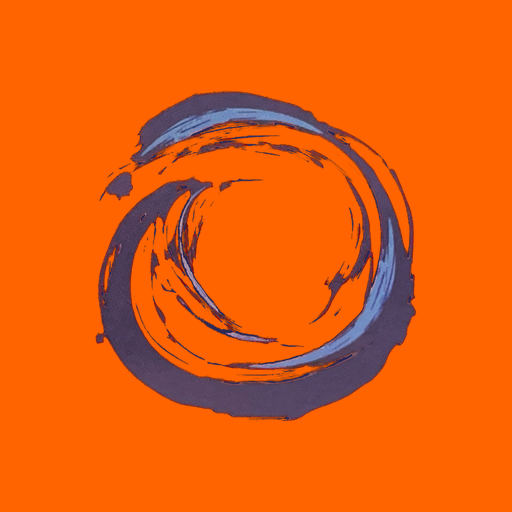
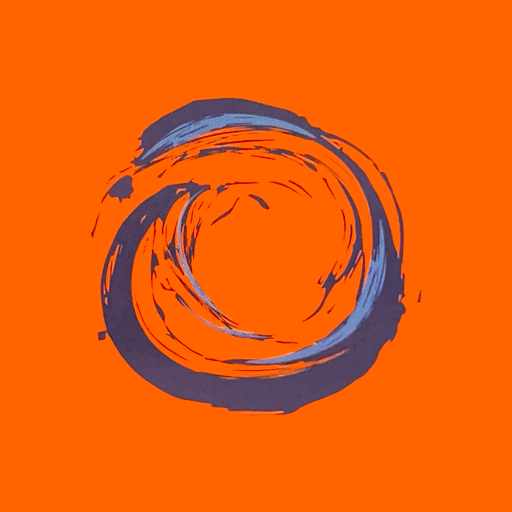
Fix: colori autentici della spirale + wordmark trasparente (no rettangolo blu)
- Loghi rigenerati dalla scansione reale mantenendo i colori originali
  (indaco profondo + azzurro acciaio), non più schiariti
- Corretto il wordmark che veniva esportato come rettangolo navy opaco:
  ora sfondo trasparente, verificato a build-time
- Contatti 'Parliamone': testo riscritto
- Pipeline asset riproducibile in scripts/brand/ + docs/BRAND-ASSETS.md
- PROGRESS/DECISIONS/README aggiornati allo stato attuale

Changed region(s): [[0.1875, 0.1562, 0.8438, 0.8438], [0.5312, 0.3438, 0.5938, 0.375], [0.1562, 0.4375, 0.1875, 0.4688]]

diff --git a/src/app/contatti/page.tsx b/src/app/contatti/page.tsx
@@ -21,8 +21,9 @@ export default function ContattiPage() {
           Parliamone
         </h1>
         <p className="mt-5 text-pretty font-sans text-base leading-relaxed text-ink/70">
-          Per una commissione, una collaborazione o solo per un saluto: sono qui.
-          Il modo più veloce per raggiungermi è Instagram o WhatsApp.
+          Per una commissione, una collaborazione o due parole su un&apos;idea che
+          hai in mente: scrivimi pure. Rispondo personalmente a ogni messaggio —
+          mi trovi più facilmente su Instagram o WhatsApp.
         </p>
 
         <div className="mt-10 space-y-5">

diff --git a/scripts/brand/build-assets.py b/scripts/brand/build-assets.py
@@ -1,0 +1,79 @@
+"""Step 2 — build every brand asset from the extracted spiral.
+
+Input : spiral_authentic.png            (output of extract-spiral.py)
+        ../../public/brand/logo-concept.png  (the wordmark letterforms, native res)
+Writes (into ../../public):
+    brand/spiral.png         faithful spiral, transparent (used everywhere it spins)
+    brand/spiral-cream.png   cream silhouette of the spiral (watermark on dark bg)
+    brand/wordmark-full.png  "MEMENTO<spiral>LAB" — navy letters + spiral as the O
+    brand/wordmark-cream.png cream version of the wordmark (dark backgrounds)
+    apple-icon.png           favicon / app icon (spiral on orange, padded)
+
+Every transparent output is VERIFIED to actually have transparency, so a fully
+opaque navy rectangle can never ship again. Run: `python3 build-assets.py`.
+"""
+import os
+import numpy as np
+from PIL import Image
+
+HERE = os.path.dirname(os.path.abspath(__file__))
+PUBLIC = os.path.normpath(os.path.join(HERE, "..", "..", "public"))
+ORANGE = np.array([255, 100, 0], dtype=np.float32)
+CREAM = (251, 241, 228)
+
+spiral = Image.open(os.path.join(HERE, "spiral_authentic.png")).convert("RGBA")
+
+
+def report(name, im):
+    frac = round((np.asarray(im)[:, :, 3] < 30).mean(), 3)
+    assert frac > 0.10, f"{name} has NO transparency (frac={frac}) -> solid block!"
+    print(f"OK {name} {im.size} transparent_frac={frac}")
+
+
+# 1) spiral.png
+spiral.save(f"{PUBLIC}/brand/spiral.png")
+report("brand/spiral.png", spiral)
+
+# 2) spiral-cream.png (recolour ink -> cream, keep alpha)
+a = np.asarray(spiral).copy()
+a[:, :, 0], a[:, :, 1], a[:, :, 2] = CREAM
+cream_sp = Image.fromarray(a, "RGBA")
+cream_sp.save(f"{PUBLIC}/brand/spiral-cream.png")
+report("brand/spiral-cream.png", cream_sp)
+
+# 3) wordmark-full.png — replace the concept's low-res O with the hi-res spiral
+concept = Image.open(f"{PUBLIC}/brand/logo-concept.png").convert("RGB").copy()
+px = concept.load()
+for y in range(258, 342):                       # erase the old O (orange fill)
+    for x in range(376, 455):
+        px[x, y] = tuple(int(v) for v in ORANGE)
+D, cx, cy = 86, 415, 301                         # spiral size + O centre in the concept
+tmp = concept.convert("RGBA")
+tmp.alpha_composite(spiral.resize((D, D), Image.LANCZOS), (cx - D // 2, cy - D // 2))
+comp = np.asarray(tmp.convert("RGB")).astype(np.float32)
+
+d = np.sqrt(((comp - ORANGE) ** 2).sum(axis=2))
+alpha = np.clip((d - 45) / (120 - 45), 0, 1)     # key orange -> transparent
+wm = np.dstack([comp.astype(np.uint8), (alpha * 255).astype(np.uint8)])
+wm_im = Image.fromarray(wm, "RGBA")
+al = np.asarray(wm_im)[:, :, 3]
+ys, xs = np.where(al > 18)
+pad = 6
+wm_im = wm_im.crop((max(0, xs.min() - pad), max(0, ys.min() - pad), xs.max() + pad, ys.max() + pad))
+wm_im.save(f"{PUBLIC}/brand/wordmark-full.png")
+report("brand/wordmark-full.png", wm_im)
+
+# 4) wordmark-cream.png
+w = np.asarray(wm_im).copy()
+w[:, :, 0], w[:, :, 1], w[:, :, 2] = CREAM
+cream_wm = Image.fromarray(w, "RGBA")
+cream_wm.save(f"{PUBLIC}/brand/wordmark-cream.png")
+report("brand/wordmark-cream.png", cream_wm)
+
+# 5) favicon / apple-icon (spiral on orange, padded, square)
+S, p = 512, int(512 * 0.14)
+icon = Image.new("RGBA", (S, S), tuple(int(v) for v in ORANGE) + (255,))
+icon.alpha_composite(spiral.resize((S - 2 * p, S - 2 * p), Image.LANCZOS), (p, p))
+icon.convert("RGB").save(f"{PUBLIC}/apple-icon.png")
+print("OK apple-icon.png 512x512 (opaque icon, expected)")
+print("all assets written")

diff --git a/scripts/brand/extract-spiral.py b/scripts/brand/extract-spiral.py
@@ -1,0 +1,60 @@
+"""Step 1 — extract the MementoLab spiral from the client's scanned logo.
+
+Input : source-spiral-scan.png  (the spiral, painted in navy/steel-blue on an
+        orange card — the PNG embedded in the PDF the client provided).
+Output: spiral_authentic.png    (1000x1000, transparent background, faithful
+        colours — deep indigo + steel blue, NOT lightened).
+
+Method: soft-key out the orange background to transparency while keeping the
+scan's ORIGINAL ink RGB (no colour "cleaning"/decontamination — that lightened
+earlier versions). Disconnected paint flecks are removed so they don't read as
+dirt inside the wordmark. Run: `python3 extract-spiral.py` (needs numpy+scipy).
+"""
+import os
+import numpy as np
+from PIL import Image
+from scipy import ndimage
+
+HERE = os.path.dirname(os.path.abspath(__file__))
+ORANGE = np.array([255, 100, 0], dtype=np.float32)  # scanned card background
+LO, HI = 45.0, 120.0                                # soft alpha key (dist. from orange)
+
+src = Image.open(os.path.join(HERE, "source-spiral-scan.png")).convert("RGB")
+a = np.asarray(src).astype(np.float32)
+
+# alpha = how far each pixel is from the orange background (0 orange .. 1 ink)
+d = np.sqrt(((a - ORANGE) ** 2).sum(axis=2))
+alpha = np.clip((d - LO) / (HI - LO), 0, 1)
+
+# Keep the scan's ORIGINAL RGB. The spiral is always shown ON the orange brand
+# background in the site, so keeping original colours reproduces the scan exactly
+# and avoids the bright-blue fringing that un-premultiplying causes on downscale.
+rgba = np.dstack([a.astype(np.uint8), (alpha * 255).astype(np.uint8)])
+
+# Remove disconnected flecks: dilate to bridge the real (thin) strands into one
+# blob, keep the largest blob, drop everything spatially separated from it.
+mask = alpha > 0.16
+dil = ndimage.binary_dilation(mask, iterations=13)
+lbl, n = ndimage.label(dil)
+sizes = ndimage.sum(np.ones_like(lbl), lbl, range(1, n + 1))
+keep = lbl == (np.argmax(sizes) + 1)
+rgba[..., 3] = np.where(keep, rgba[..., 3], 0)
+
+out = Image.fromarray(rgba, "RGBA")
+
+# trim to the swirl, square it with a little breathing room, resize to 1000px
+al = np.asarray(out)[:, :, 3]
+ys, xs = np.where(al > 12)
+crop = out.crop((xs.min(), ys.min(), xs.max() + 1, ys.max() + 1))
+w, h = crop.size
+side = max(w, h)
+pad = int(side * 0.06)
+canvas = Image.new("RGBA", (side + 2 * pad, side + 2 * pad), (0, 0, 0, 0))
+canvas.alpha_composite(crop, ((side - w) // 2 + pad, (side - h) // 2 + pad))
+final = canvas.resize((1000, 1000), Image.LANCZOS)
+final.save(os.path.join(HERE, "spiral_authentic.png"))
+
+al = np.asarray(final)[:, :, 3]
+print("spiral_authentic.png", final.size,
+      "transparent_frac", round((al < 30).mean(), 3),
+      "solid ink median RGB", np.median(np.asarray(final)[al > 240][:, :3], axis=0).astype(int))

diff --git a/docs/BRAND-ASSETS.md b/docs/BRAND-ASSETS.md
@@ -1,0 +1,65 @@
+# Brand assets — logo, spirale, wordmark, favicon
+
+Tutti i loghi del sito derivano dalla **spirale dipinta a mano** del brand,
+scansionata dal cliente. Questo documento spiega quali file esistono, dove
+vengono usati e **come rigenerarli da zero** in modo fedele.
+
+## Regola d'oro
+Il cliente vuole la **scansione reale** della spirale, con i **colori autentici**
+(indaco profondo + azzurro acciaio). NON usare versioni vettoriali/ridisegnate e
+NON "schiarire" o desaturare i colori. La spirale va sempre mostrata sul fondo
+**arancione** del brand.
+
+## File generati
+
+| File | Cos'è | Dove si usa |
+|------|-------|-------------|
+| `public/brand/spiral.png` | Spirale fedele, sfondo trasparente (1000×1000) | Intro animata, hero che gira sullo scroll, footer, filigrane su sezioni arancioni/chiare, favicon |
+| `public/brand/spiral-cream.png` | Silhouette color crema della spirale | Filigrana sulle sezioni scure (navy) |
+| `public/brand/wordmark-full.png` | Logotipo `MEMENTO●LAB`: lettere navy + spirale come lettera **O** | Header, intro, hero (reveal sullo scroll), footer |
+| `public/brand/wordmark-cream.png` | Versione crema del logotipo | Menu mobile e sfondi scuri |
+| `public/apple-icon.png` | Favicon / icona app: spirale su arancione (512×512) | Tab del browser, home screen |
+
+Sorgenti (in `scripts/brand/`):
+- `source-spiral-scan.png` — la scansione originale (spirale su cartoncino arancione), estratta dal PDF del cliente.
+- `public/brand/logo-concept.png` — il logotipo di concept, da cui si prendono le **lettere** MEMENT…LAB alla loro risoluzione nativa.
+
+## Come rigenerare tutto da zero
+
+Serve Python 3 con `pillow`, `numpy`, `scipy`:
+
+```bash
+pip3 install --user pillow numpy scipy
+cd scripts/brand
+python3 extract-spiral.py   # scansione -> spiral_authentic.png (spirale pulita, trasparente)
+python3 build-assets.py     # spiral_authentic.png -> tutti i file in public/
+```
+
+`build-assets.py` **verifica** che ogni PNG trasparente abbia davvero
+trasparenza (fallisce se per errore produce un rettangolo pieno).
+
+## Come funziona (in breve)
+1. **extract-spiral.py** — sul cartoncino l'unico colore di fondo è l'arancione
+   `(255,100,0)`. Si calcola per ogni pixel la distanza da quell'arancione e la
+   si usa come canale alpha (arancione → trasparente, inchiostro → opaco). Si
+   **mantengono i colori RGB originali** della scansione (nessuna "pulizia" che
+   li schiarirebbe). Gli schizzi di vernice staccati dalla spirale vengono
+   rimossi (dilatazione → si tiene solo la macchia più grande) perché dentro il
+   logotipo sembrerebbero sporco. Output quadrato 1000px.
+2. **build-assets.py** — salva la spirale, ne crea la versione crema, e
+   ricostruisce il logotipo prendendo le lettere dal concept e **sostituendo la
+   vecchia O a bassa risoluzione con la spirale nuova** (centro O = `(415,301)`,
+   diametro `86px` nello spazio del concept). Infine genera il favicon.
+
+## Errori già incontrati (da non ripetere)
+- **Logotipo diventato un rettangolo blu pieno**: il keying dell'arancione era
+  andato perso e il PNG risultava opaco. Per questo `build-assets.py` ora
+  verifica sempre la trasparenza.
+- **Spirale troppo chiara / azzurro acceso**: causato dall'"un-premultiply" dei
+  bordi semi-trasparenti, che veniva poi amplificato dal ridimensionamento di
+  `next/image`. Soluzione: tenere i colori RGB originali della scansione.
+
+## Se cambia la spirale (nuova scansione)
+Sostituisci `scripts/brand/source-spiral-scan.png` con la nuova scansione (sempre
+su fondo arancione uniforme) e rilancia i due script. Se il fondo non è
+arancione, aggiorna il valore `ORANGE` in cima a `extract-spiral.py`.

diff --git a/PROGRESS.md b/PROGRESS.md
@@ -23,6 +23,16 @@ Stato del progetto, in ordine cronologico. Aggiornato ad ogni sessione.
 - **v8 — Reveal nome & processo**: sezione BrandReveal (il nome MEMENTOLAB si svela dopo
   i caroselli); pagina Processo trasformata in timeline interattiva; intro con reveal del
   nome anticipato e più lungo. Documentazione completa (`HANDOFF.md`).
+- **v9 — Contatti "light" & Instagram in primo piano**: form commissioni/contatti resi
+  **solo lato client** — precompilano lo stesso messaggio con emoji e lo mandano via
+  **Instagram** (primario), WhatsApp o email (`src/lib/message.ts`). Nessuna scrittura su DB.
+  **Neon reso dormiente** (vedi sotto). Email ufficiale `mementolab97@gmail.com`, telefono
+  con prefisso `+39 348 592 4413`.
+- **v10 — Logo in alta qualità & sezione Shop**: TUTTI i loghi rigenerati dalla
+  **scansione reale** della spirale in alta risoluzione, con i **colori autentici**
+  (vedi `docs/BRAND-ASSETS.md` e `scripts/brand/`). Nuova pagina **`/shop`** (voce di menu):
+  placeholder "Lo shop sta prendendo forma" con card "IN ARRIVO", da rifinire quando il
+  cliente avrà le info sui prodotti. Testo Contatti "Parliamone" riscritto.
 
 ## ✅ Fatto (release 1)
 
@@ -39,8 +49,10 @@ Stato del progetto, in ordine cronologico. Aggiornato ad ogni sessione.
   recuperate e salvate in `brand-reference/`.
 
 ### Identità
-- Logo **MEMENT·O·LAB** ricostruito in SVG vettoriale: la "O" è una spirale
-  pennellata (`src/components/SpiralMark.tsx` + `Logo.tsx`). Favicon SVG in `public/icon.svg`.
+- Logo **MEMENT·O·LAB**: la "O" è la **spirale reale dipinta a mano** (scansione in
+  alta qualità). Tutti gli asset (spirale, wordmark, favicon) sono generati da
+  `scripts/brand/` — vedi **`docs/BRAND-ASSETS.md`**. La vecchia versione SVG
+  vettoriale è stata **scartata** (il cliente vuole la pennellata reale).
 - Palette: arancione `#EB5634`, navy `#082E56`, crema `#FAF6EF`.
 - Font: **Cormorant Garamond** (display) + **Inter** (testo).
 
@@ -64,13 +76,15 @@ Stato del progetto, in ordine cronologico. Aggiornato ad ogni sessione.
 - Tutte le pagine rispondono 200, build pulita, API testate (200 valido / 422 non valido).
 
 ## 🔜 Da fare / possibili step 2
-- Collegare **Neon** (DATABASE_URL) e **Resend** (RESEND_API_KEY) per attivare
-  salvataggio richieste + notifiche email. Vedi `.env.example`.
-- Upload immagini di riferimento nel form commissioni (storage es. Vercel Blob).
+- **Sezione Shop**: rifinire `/shop` con i prodotti reali (foto, prezzi, disponibilità,
+  eventuale checkout) quando il cliente fornirà le info. Ora è un placeholder.
+- **Neon dormiente**: il DB è collegato ma non usato (scelta del cliente, vedi
+  `DECISIONS.md`). Per riattivarlo: rimettere `node scripts/db-push.mjs` nel build e
+  ricollegare il fetch nei form a `/api/commissioni` e `/api/contatti`.
 - Eventuale **Journal/Blog** per storytelling e SEO.
 - Ampliare la categoria "Altro" con nuovi pezzi (tele, accessori).
 - Sostituire eventuali foto con scatti dedicati in alta risoluzione, se disponibili.
 
 ## Contenuti reali ancora da fornire
-- Indirizzo email ufficiale del brand (ora placeholder in `src/lib/site.ts`).
+- **Prodotti per lo Shop** (foto, prezzi, disponibilità).
 - Conferma della categoria di alcuni pezzi (classificazione automatica dalle didascalie).

diff --git a/DECISIONS.md b/DECISIONS.md
@@ -53,6 +53,28 @@ Dopo la prima release, il brand ha chiesto un'esperienza più forte e in movimen
 - **Hero scroll-driven** (`HeroScroll.tsx`): con Framer Motion `useScroll`, la spirale ruota e
   si rimpicciolisce mentre il wordmark si svela con un wipe. Rispetta `prefers-reduced-motion`.
 
-## Contatti
-- **WhatsApp 348 592 4413** e **Instagram @mementolab_** presi dai contenuti reali.
-- **Email**: placeholder (`mementolab.art@gmail.com`) in `src/lib/site.ts` — **da confermare**.
+## Contatti & flusso richieste (v9 — scelta del cliente: "più light")
+- Il cliente ha chiesto un flusso **senza database**: i form commissioni/contatti
+  **non salvano** più nulla. Precompilano lo **stesso messaggio con emoji**
+  (`src/lib/message.ts`) e lo mandano via **Instagram** (canale primario, `ig.me/m/` +
+  copia negli appunti perché IG non permette il prefill), **WhatsApp** (`wa.me`) o
+  **email** (`mailto:`). Vuole che i messaggi arrivino soprattutto da Instagram.
+- **Neon reso dormiente**: tolto `db-push` dal build; le API `/api/*` (Prisma+Resend)
+  esistono ma non sono più chiamate. Riattivabile in futuro (vedi `PROGRESS.md`).
+- **Contatti veri**: WhatsApp/telefono **+39 348 592 4413**, Instagram **@mementolab_**,
+  email ufficiale **mementolab97@gmail.com** (confermata dal cliente). In `src/lib/site.ts`.
+
+## Logo in alta qualità & colori autentici (v10 — richiesta del cliente)
+- Il cliente ha fornito la **scansione reale** della spirale (PDF). Ho sostituito
+  **tutti** i loghi con la spirale in alta risoluzione estratta da quella scansione.
+- **Colori autentici, non schiariti**: si tengono i colori RGB originali della
+  scansione (indaco profondo + azzurro acciaio). Un primo tentativo che "puliva" i
+  bordi li rendeva troppo chiari/azzurro acceso → scartato. Pipeline e motivazioni in
+  **`docs/BRAND-ASSETS.md`**; script rieseguibili in **`scripts/brand/`**.
+- La versione **SVG vettoriale** della spirale è definitivamente **abbandonata**: il
+  cliente vuole la pennellata reale.
+
+## Sezione Shop (v10)
+- Aggiunta pagina **`/shop`** come **placeholder premium** ("Lo shop sta prendendo
+  forma") con card "IN ARRIVO", su richiesta del cliente. Sarà rifinita con i prodotti
+  reali (foto/prezzi/disponibilità) più avanti.

diff --git a/README.md b/README.md
@@ -18,22 +18,27 @@ npm run dev      # http://localhost:3000
 
 > Node 20+ richiesto.
 
-## Variabili d'ambiente
-Copia `.env.example` in `.env.local` e configura le variabili. I form funzionano
-anche senza credenziali (degradano con eleganza); per **salvare** le richieste e
-ricevere **notifiche email** servono `DATABASE_URL` (Neon) e `RESEND_API_KEY` (Resend).
+## Contatti / richieste
+I form **non usano il database**: precompilano lo stesso messaggio (con emoji) e lo
+mandano via **Instagram** (canale primario), **WhatsApp** o **email**. Il database
+**Neon è dormiente** (collegato ma non usato) — vedi `DECISIONS.md` per il perché e
+come riattivarlo.
 
-Con il database configurato:
+## Brand assets (logo, spirale, favicon)
+Tutti i loghi derivano dalla **scansione reale** della spirale. Per rigenerarli:
 
 ```bash
-npx prisma db push   # crea le tabelle su Neon
+cd scripts/brand && python3 extract-spiral.py && python3 build-assets.py
 ```
 
+Guida completa: [`docs/BRAND-ASSETS.md`](./docs/BRAND-ASSETS.md).
+
 ## Struttura
-- `src/app` — pagine (home, portfolio, chi-sono, processo, commissioni, contatti) e API
+- `src/app` — pagine (home, portfolio, shop, chi-sono, processo, commissioni, contatti) e API
 - `src/components` — UI (Header, Footer, Logo, Gallery, form…)
-- `src/lib` — dati e configurazione (`site.ts`, `gallery.ts`, `validation.ts`)
-- `prisma/schema.prisma` — modelli dati
+- `src/lib` — dati e configurazione (`site.ts`, `gallery.ts`, `message.ts`, `validation.ts`)
+- `public/brand` — logo, spirale, wordmark, favicon (generati da `scripts/brand/`)
 - `public/gallery` — immagini delle opere
+- `prisma/schema.prisma` — modelli dati (DB dormiente)
 
 Vedi [`PROGRESS.md`](./PROGRESS.md) e [`DECISIONS.md`](./DECISIONS.md) per stato e scelte.
